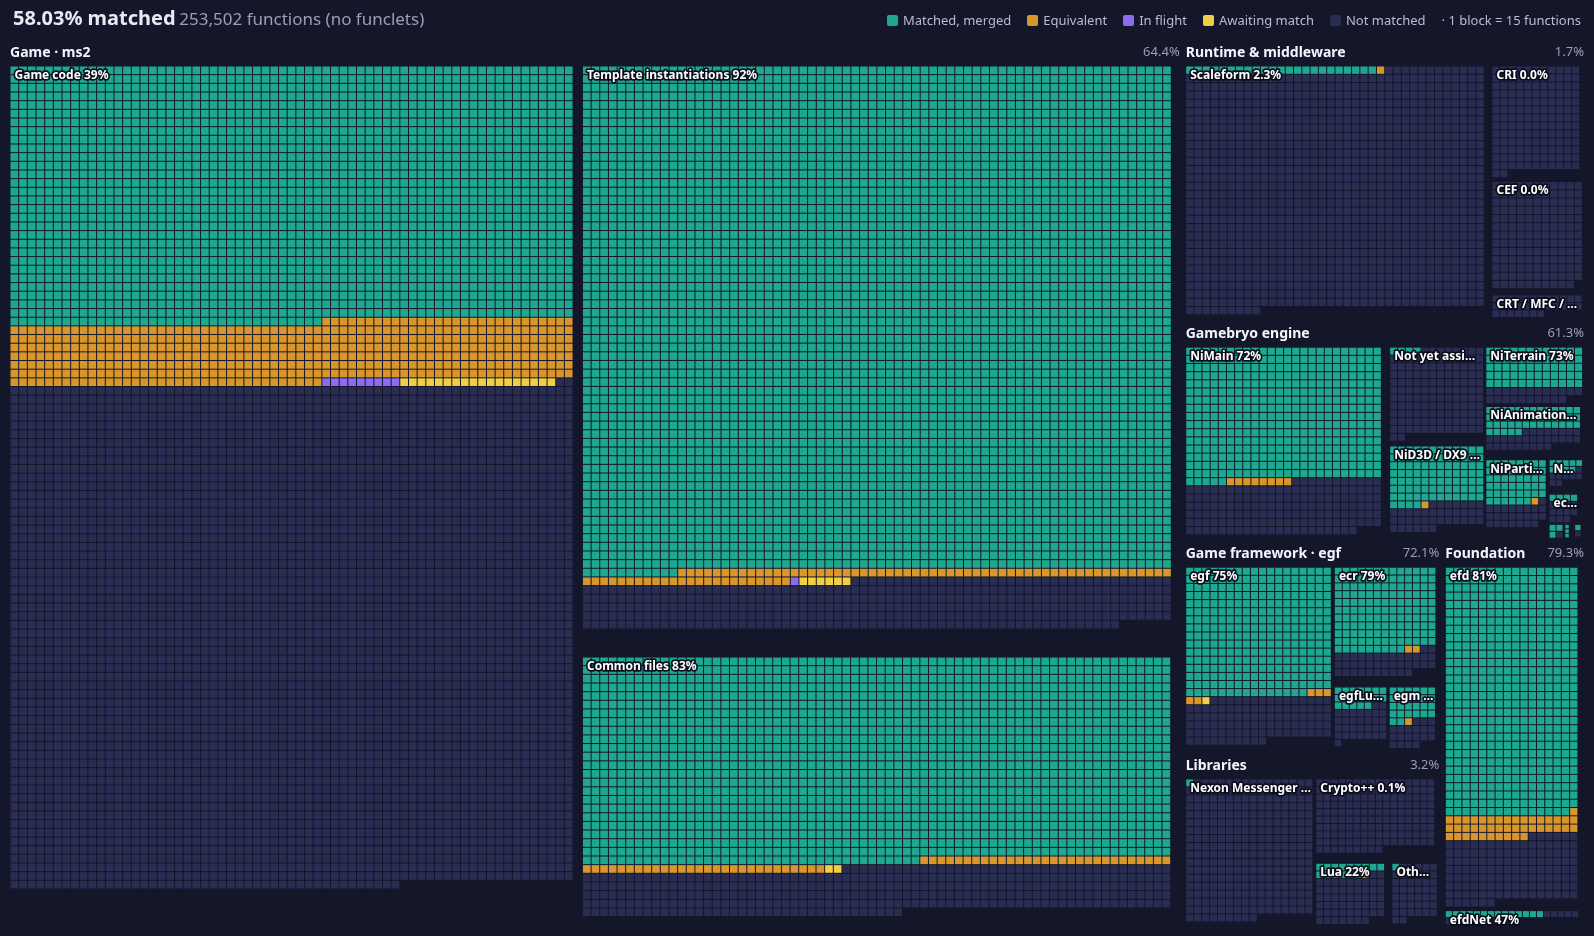
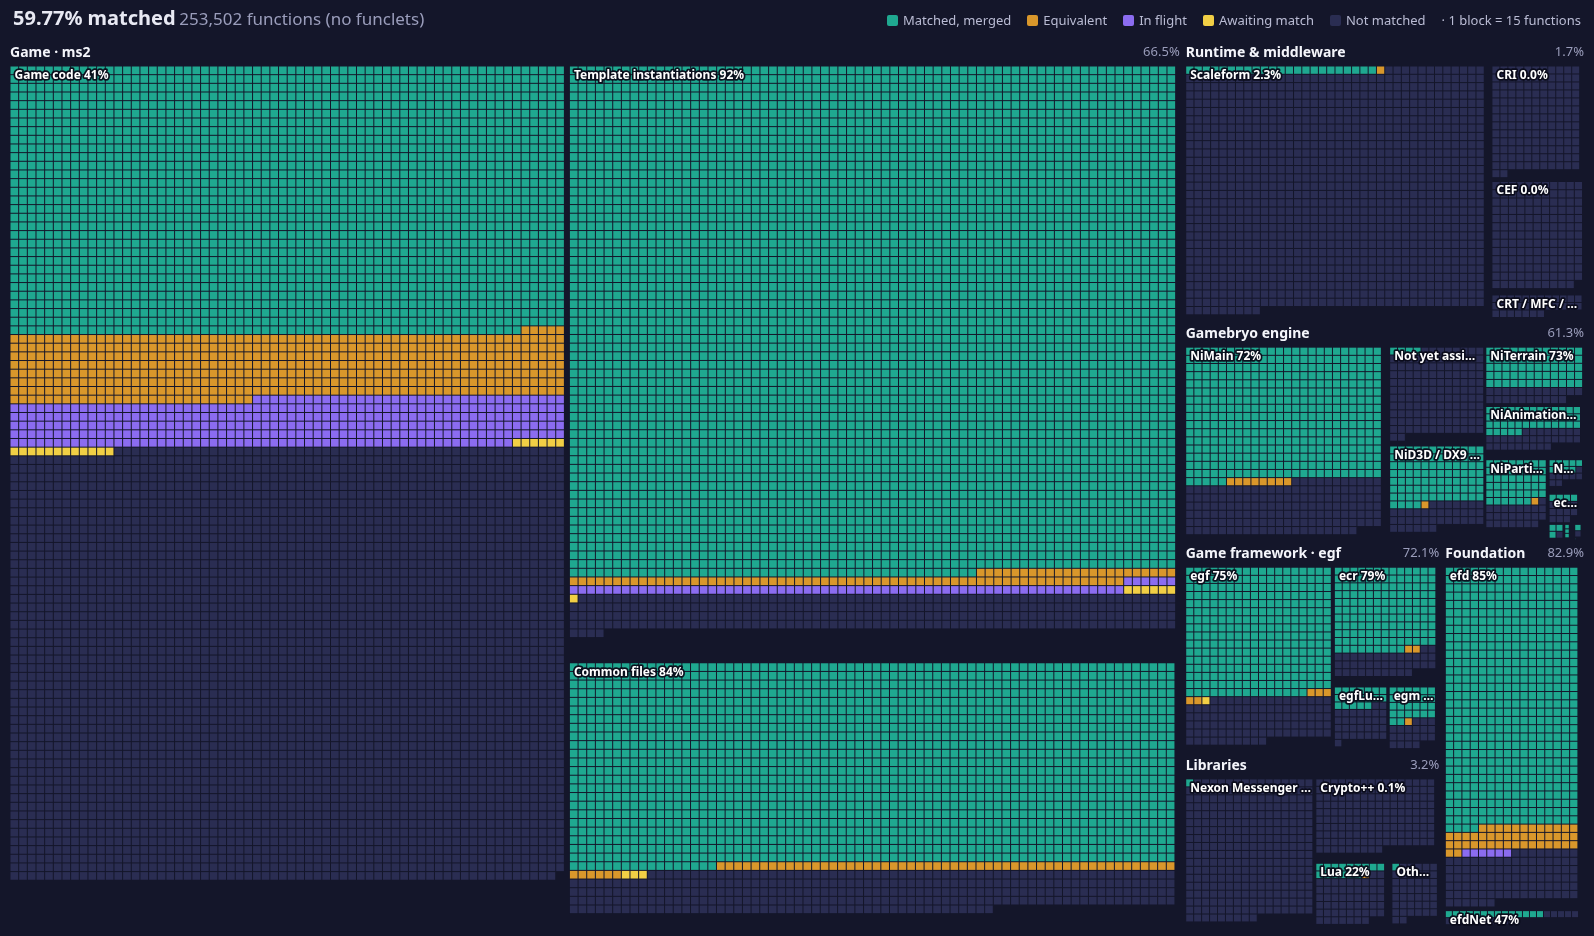
README: refresh progress image and table

diff --git a/README.md b/README.md
@@ -25,13 +25,13 @@ Merged totals by area (functions in the original executable; regenerated on each
 <!-- progress:start -->
 | Area | Functions | Matched | Equivalent | Done |
 |---|---:|---:|---:|---:|
-| Game · ms2 | 188,636 | 112,163 (59.5%) | 8,886 (4.7%) | 64.2% |
+| Game · ms2 | 188,636 | 115,673 (61.3%) | 9,415 (5.0%) | 66.3% |
 | Runtime & middleware | 20,539 | 339 (1.7%) | 19 (0.1%) | 1.7% |
 | Gamebryo engine | 16,075 | 9,693 (60.3%) | 155 (1.0%) | 61.3% |
 | Game framework · egf | 9,929 | 7,020 (70.7%) | 134 (1.3%) | 72.1% |
 | Libraries | 8,214 | 259 (3.2%) | 3 (0.0%) | 3.2% |
-| Foundation | 10,109 | 7,379 (73.0%) | 636 (6.3%) | 79.3% |
-| **Total** | **253,502** | 136,853 (54.0%) | 9,833 (3.9%) | 57.9% |
+| Foundation | 10,109 | 7,697 (76.1%) | 681 (6.7%) | 82.9% |
+| **Total** | **253,502** | 140,681 (55.5%) | 10,407 (4.1%) | 59.6% |
 <!-- progress:end -->
 
 ## Layout
